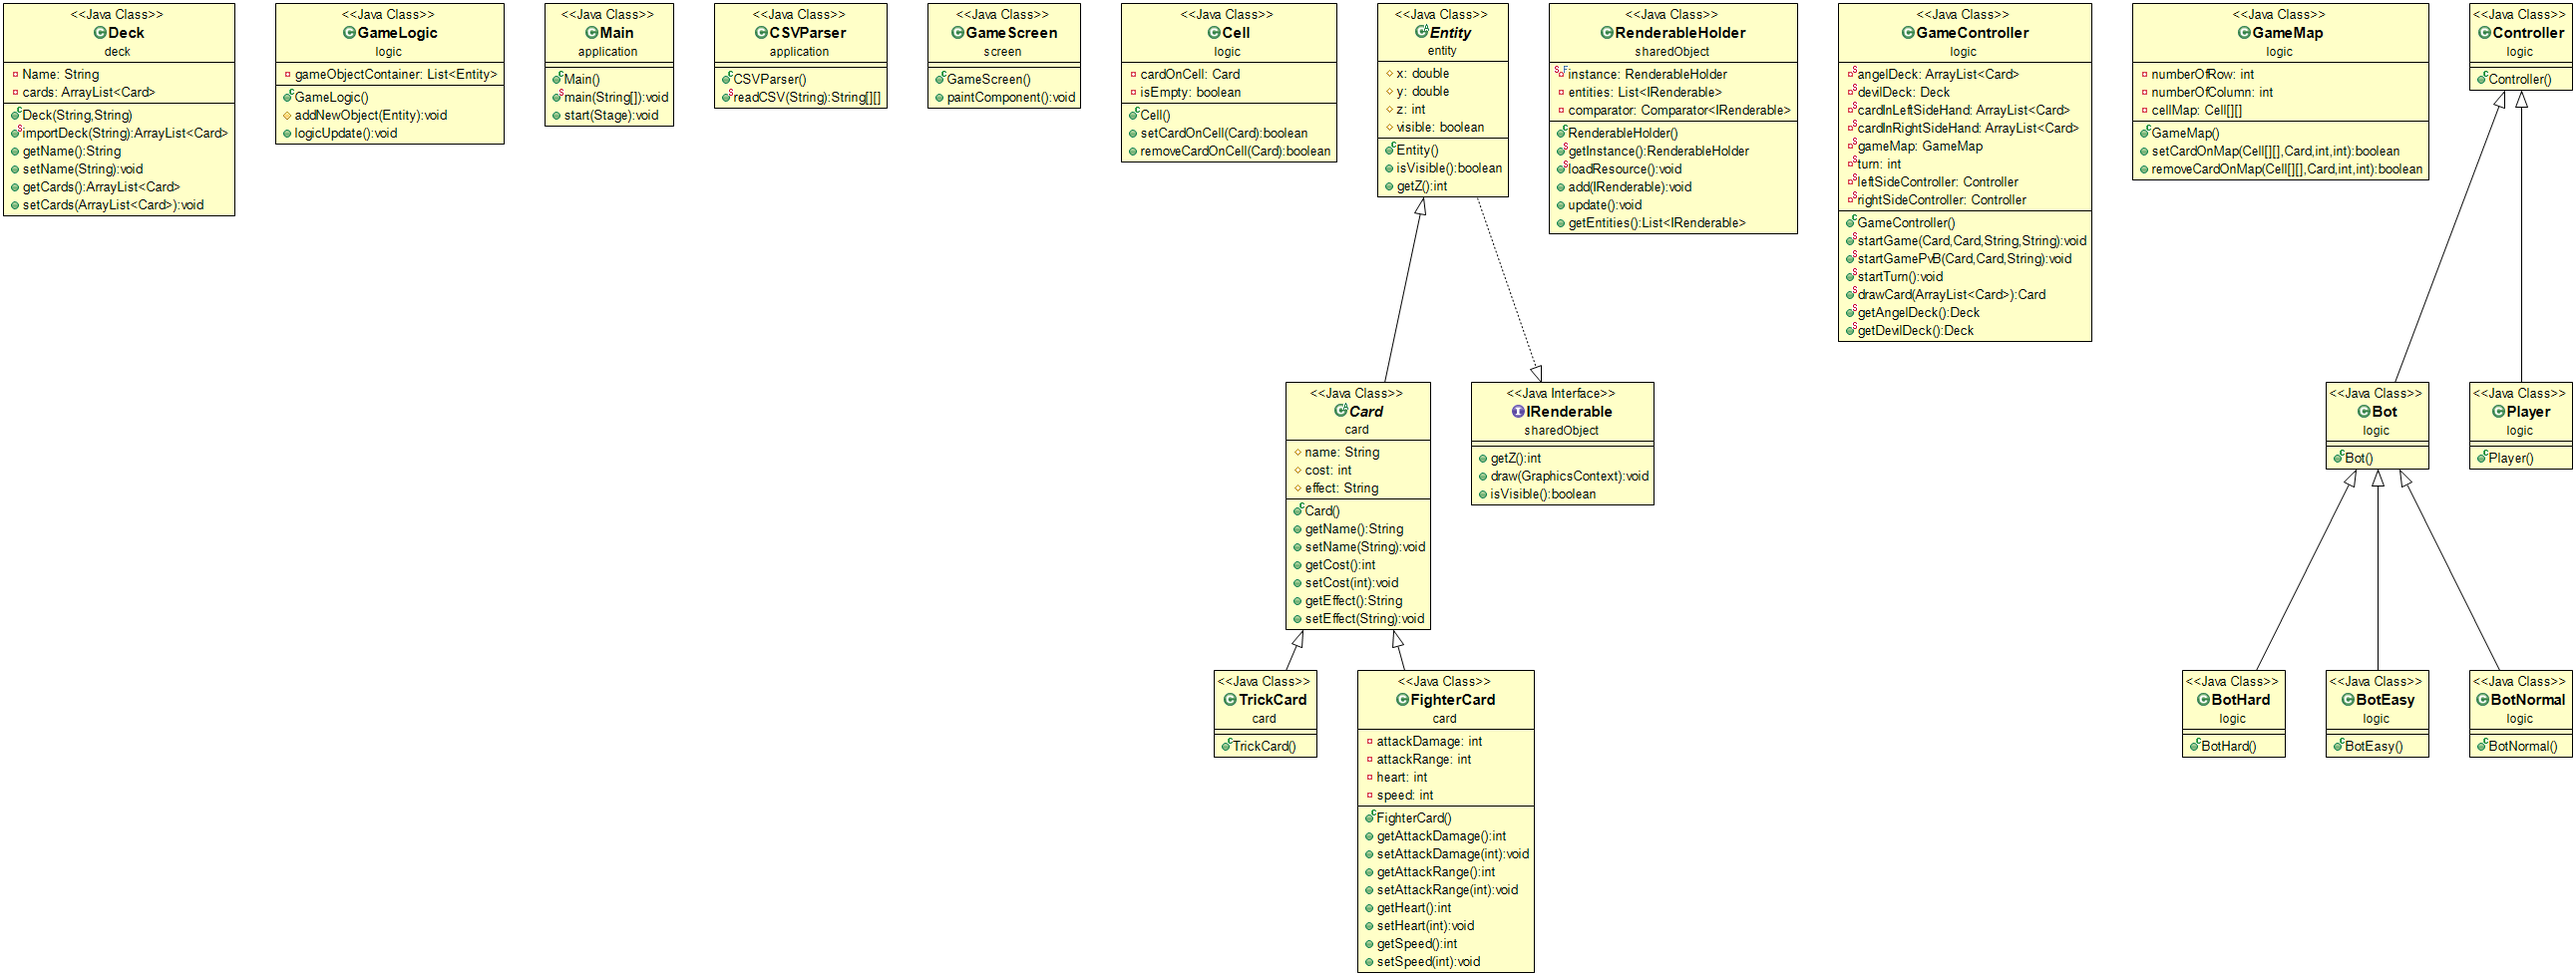
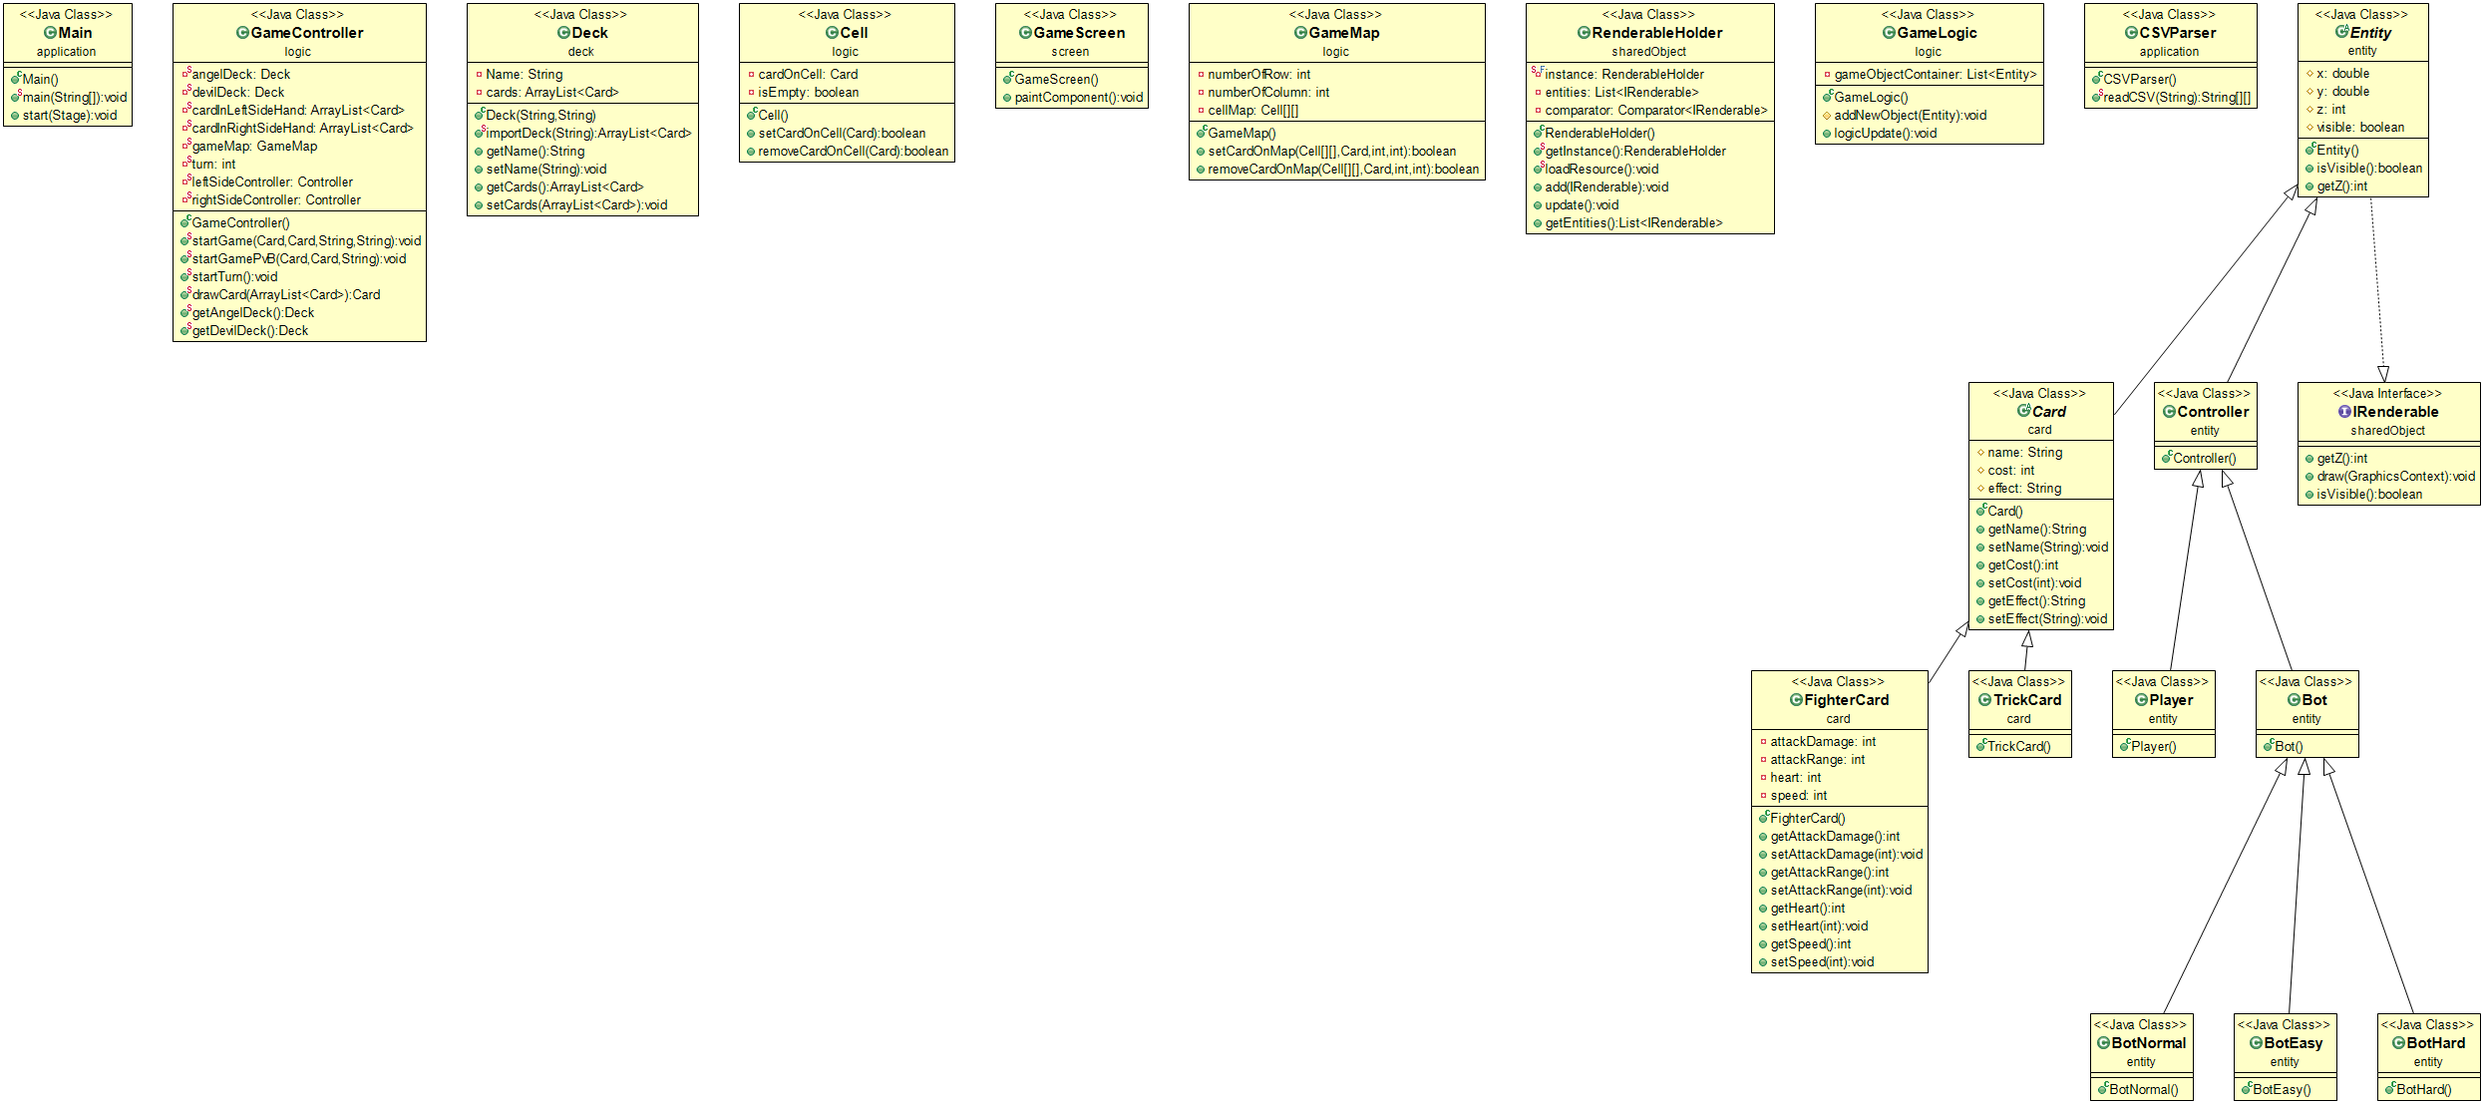
Update Controller.java

Changed region(s): [[0.0, 0.0, 1.0, 0.8887], [0.4637, 0.3677, 0.6491, 1.0], [0.8346, 0.9193, 1.0, 1.0]]

diff --git a/src/entity/Controller.java b/src/entity/Controller.java
@@ -1,5 +1,5 @@
 package entity;
 
-public class Controller {
+public abstract class Controller extends Entity {
 
 }
